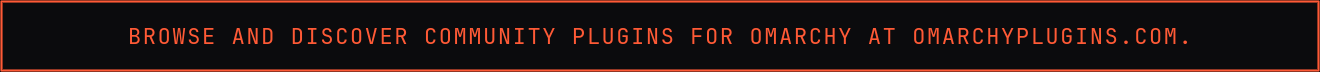
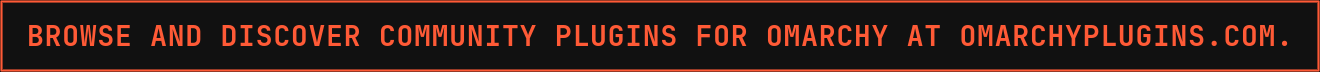
Improve README action readability (#339)
Regenerate the README action graphics for crisp, accessible contrast, pin their dimensions in tests, and document the required migration path for legacy V4 planning material.

Changed region(s): [[0.0, 0.3333, 0.9939, 0.6389]]

diff --git a/test/plugin-verification.test.js b/test/plugin-verification.test.js
@@ -515,16 +515,32 @@ test("verification issue, workflow, and documentation preserve automatic publica
     readFile(new URL("README.md", root), "utf8"),
     readFile(new URL("SUBMISSION.md", root), "utf8"),
   ]);
-  const readmeNavAssets = await Promise.all([
-    "develop.png",
-    "submit.png",
-    "verify.png",
-  ].map((name) => readFile(new URL(`site/assets/img/readme-nav/${name}`, root))));
+  const readmeNavSpecs = [
+    { name: "develop.png", sourceWidth: 416, sourceHeight: 160, displayWidth: 104 },
+    { name: "submit.png", sourceWidth: 704, sourceHeight: 160, displayWidth: 176 },
+    { name: "verify.png", sourceWidth: 1360, sourceHeight: 160, displayWidth: 340 },
+  ];
+  const readmeNavAssets = await Promise.all(readmeNavSpecs.map(({ name }) => (
+    readFile(new URL(`site/assets/img/readme-nav/${name}`, root))
+  )));
   const readmeTagline = await readFile(new URL("site/assets/img/readme-tagline.png", root));
   const readmePreview = await readFile(new URL("preview.png", root));
 
   for (const asset of [...readmeNavAssets, readmeTagline, readmePreview]) {
     assert.equal(asset.subarray(1, 4).toString("ascii"), "PNG");
+  }
+  for (const [index, asset] of readmeNavAssets.entries()) {
+    const spec = readmeNavSpecs[index];
+    assert.deepEqual(
+      [asset.readUInt32BE(16), asset.readUInt32BE(20)],
+      [spec.sourceWidth, spec.sourceHeight],
+      spec.name,
+    );
+    assert.match(
+      readme,
+      new RegExp(`readme-nav/${spec.name.replace(".", "\\.")}"[^>]*width="${spec.displayWidth}"`),
+      spec.name,
+    );
   }
   assert.deepEqual(
     [readmeTagline.readUInt32BE(16), readmeTagline.readUInt32BE(20)],
@@ -567,8 +583,8 @@ test("verification issue, workflow, and documentation preserve automatic publica
   assert.match(guide, new RegExp(requestUrl.replace(/[.*+?^${}()|[\]\\]/g, "\\$&")));
   assert.match(readme, new RegExp(requestUrl.replace(/[.*+?^${}()|[\]\\]/g, "\\$&")));
   assert.match(submissionGuide, new RegExp(requestUrl.replace(/[.*+?^${}()|[\]\\]/g, "\\$&")));
-  assert.match(readme, /<h1><a[\s\S]*readme-tagline\.png[\s\S]*<\/a><\/h1>/);
-  assert.doesNotMatch(readme, /readme-header\.png|omarchy-wordmark\.png|<img[^>]+\sheight="/);
+  assert.match(readme, /<p><a[\s\S]*readme-tagline\.png[\s\S]*<\/a><\/p>/);
+  assert.doesNotMatch(readme, /<h1>|readme-header\.png|omarchy-wordmark\.png|<img[^>]+\sheight="/);
   assert.match(readme, /readme-tagline\.png" alt="Browse and discover community plugins for Omarchy at omarchyplugins\.com\." width="660"/);
   assert.match(readme, /readme-nav\/develop\.png[\s\S]*readme-nav\/submit\.png[\s\S]*readme-nav\/verify\.png/);
   assert.doesNotMatch(readme, /readme-nav\/(?:browse|contribute)\.png|<kbd>/);

diff --git a/README.md b/README.md
@@ -1,8 +1,8 @@
 <div align="center">
 
-<h1><a href="https://omarchyplugins.com/"><img src="site/assets/img/readme-tagline.png" alt="Browse and discover community plugins for Omarchy at omarchyplugins.com." width="660"></a></h1>
+<p><a href="https://omarchyplugins.com/"><img src="site/assets/img/readme-tagline.png" alt="Browse and discover community plugins for Omarchy at omarchyplugins.com." width="660"></a></p>
 
-<a href="https://omarchyplugins.com/develop.html"><img src="site/assets/img/readme-nav/develop.png" alt="Develop" width="90"></a> <a href="https://github.com/HANCORE-linux/omarchy-plugin-marketplace/issues/new?template=submit-plugin.yml"><img src="site/assets/img/readme-nav/submit.png" alt="Submit a Plugin" width="158"></a> <a href="https://github.com/HANCORE-linux/omarchy-plugin-marketplace/issues/new?template=verify-plugin.yml"><img src="site/assets/img/readme-nav/verify.png" alt="Request Automated Plugin Verification" width="306"></a>
+<a href="https://omarchyplugins.com/develop.html"><img src="site/assets/img/readme-nav/develop.png" alt="Develop" width="104"></a> <a href="https://github.com/HANCORE-linux/omarchy-plugin-marketplace/issues/new?template=submit-plugin.yml"><img src="site/assets/img/readme-nav/submit.png" alt="Submit a Plugin" width="176"></a> <a href="https://github.com/HANCORE-linux/omarchy-plugin-marketplace/issues/new?template=verify-plugin.yml"><img src="site/assets/img/readme-nav/verify.png" alt="Request Automated Plugin Verification" width="340"></a>
 
 </div>
 

diff --git a/PLAN.md b/PLAN.md
@@ -244,6 +244,14 @@ No community dependency code may be executed during this process.
 
 V4 should be stricter without silently changing V3 semantics.
 
+Before V4 implementation begins:
+
+- treat the legacy local preparation commit `abf8e41` as reference material only; do not merge or push it;
+- extract only its still-useful inert regression corpus and offline backtest plan onto a fresh branch based on current `main`;
+- adapt those materials to the current modular security architecture and confirm that they still characterize V3 without changing its outcomes;
+- review and preserve the migrated material before removing the legacy `security-baseline-v4` branch and worktree; and
+- delete the legacy preparation only after the migrated material is safely retained in the current codebase.
+
 Candidate V4 controls:
 
 - stronger enforcement for remote execution and unpinned acquisition;
